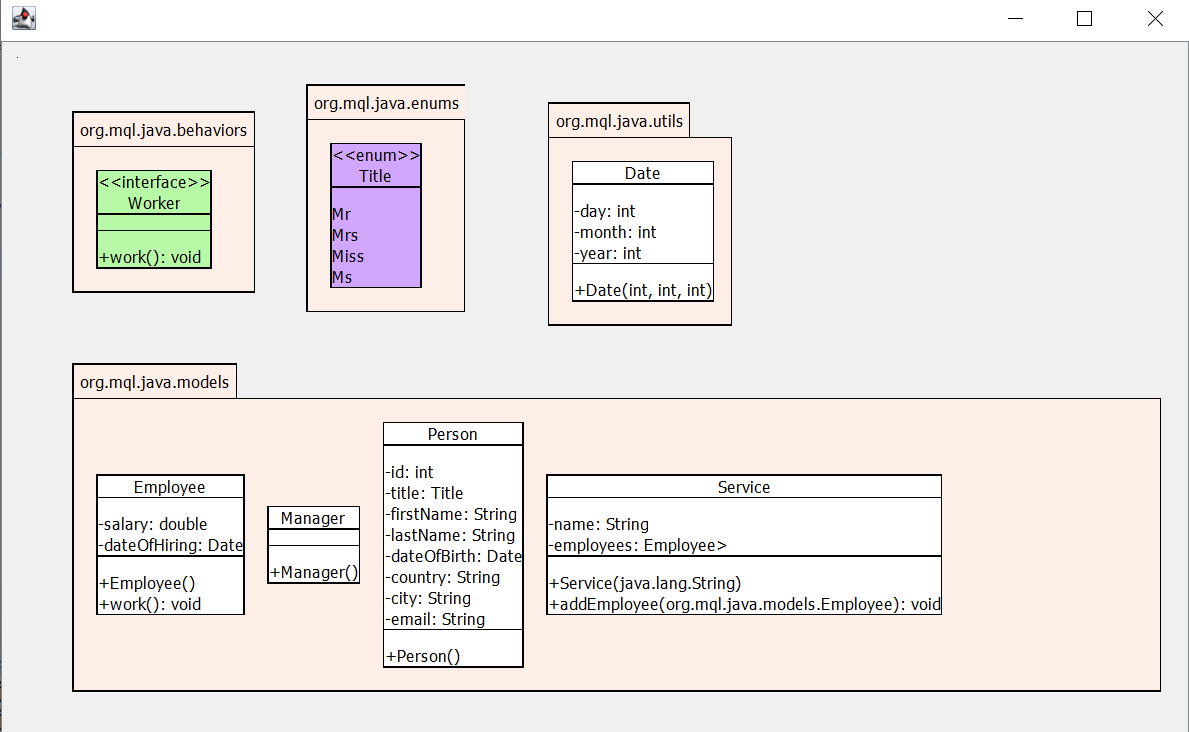
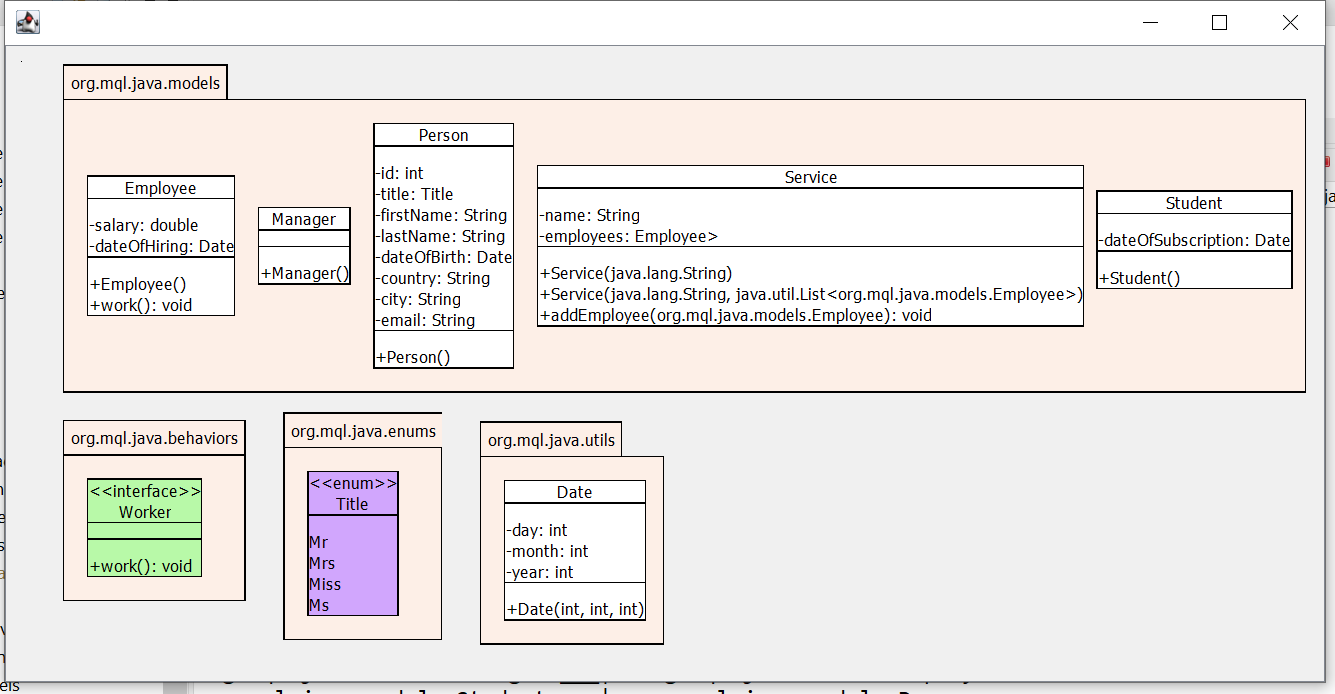
Updated README

diff --git a/README.md b/README.md
@@ -70,6 +70,7 @@ Package : org.mql.java.models
 	 	- name : String
 	 	- employees : Employee>
 	 	+ Service(java.lang.String)
+	 	+ Service(java.lang.String, java.util.List<org.mql.java.models.Employee>)
 	 	+ addEmployee(org.mql.java.models.Employee) : void
 
 	Class : Student
@@ -92,7 +93,7 @@ List of relations
 
 org.mql.java.models.Employee ---|> org.mql.java.behaviors.Worker
 org.mql.java.models.Employee ___|> org.mql.java.models.Person
-org.mql.java.models.Employee _____ org.mql.java.models.Service
+org.mql.java.models.Employee ---<> org.mql.java.models.Service
 org.mql.java.models.Manager ___|> org.mql.java.models.Employee
 org.mql.java.models.Student ___|> org.mql.java.models.Person
 org.mql.java.utils.Date _____ org.mql.java.models.Employee
